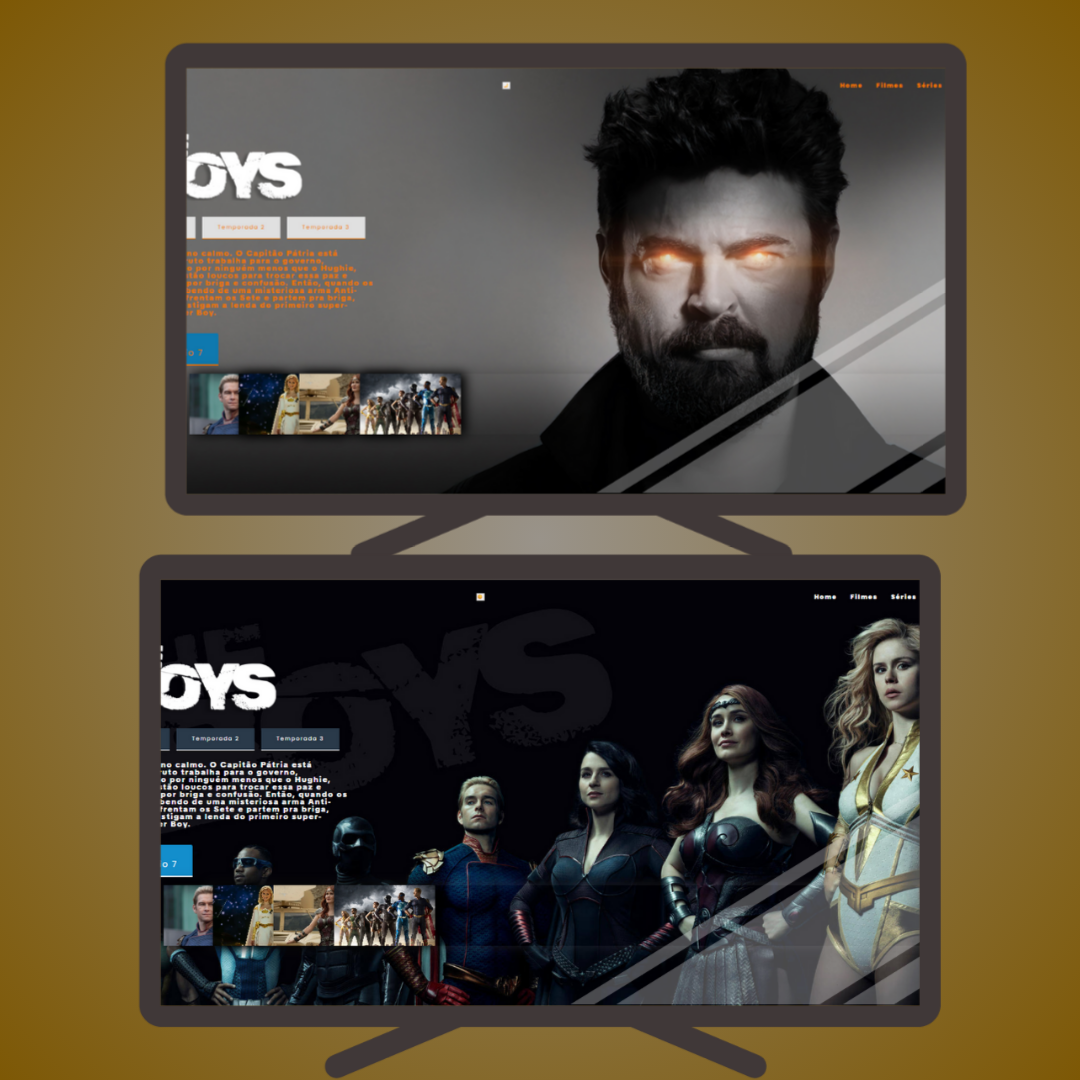
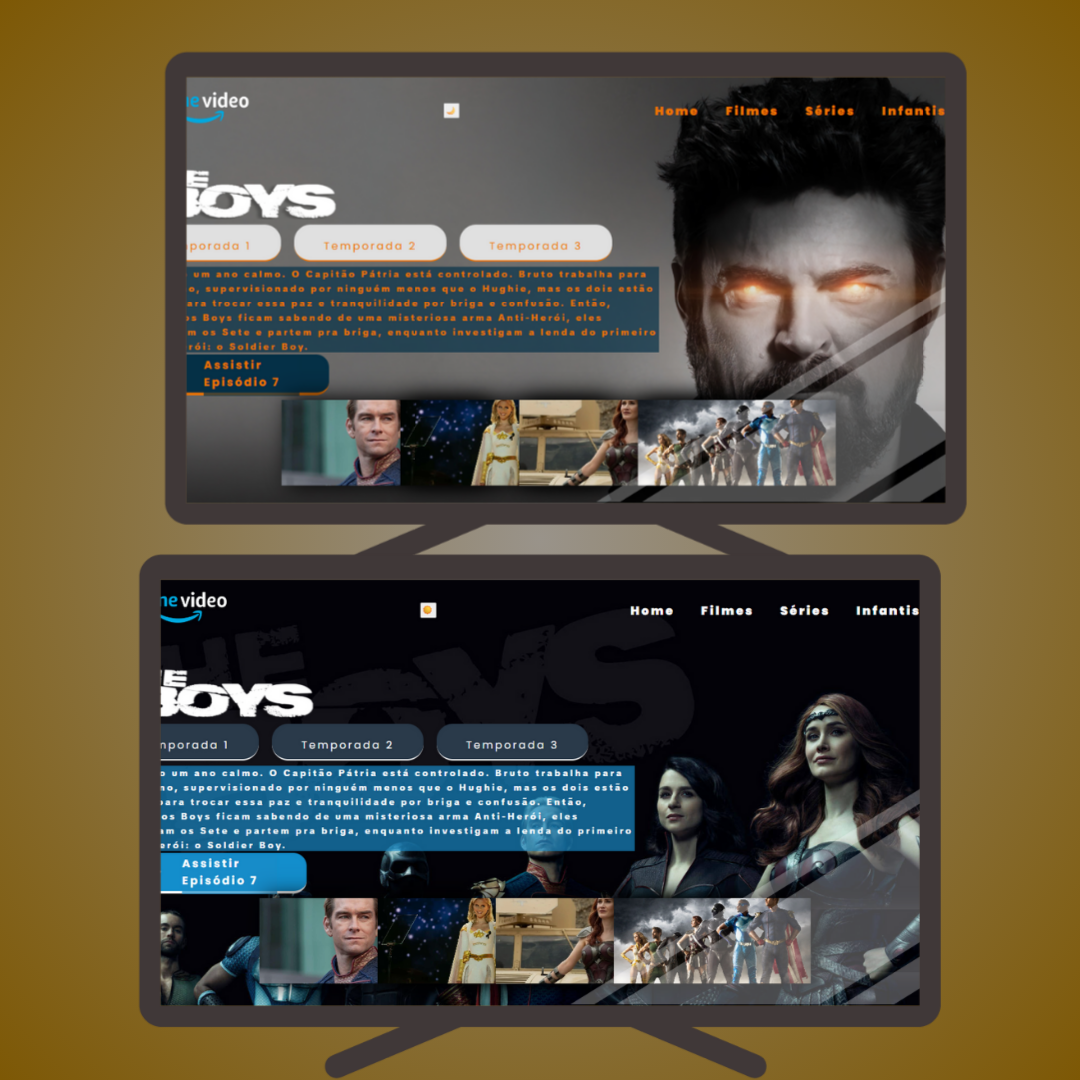
atualização

diff --git a/style.css b/style.css
@@ -3,9 +3,10 @@
 
 /* Variáveis para modo claro (padrão) */
 :root {
+  --back-color: hsla(201, 87%, 15%, 0.685);
   --bg-color: url(img/bg.jpg);
    --text-color: #ee7503;      /* Texto escuro */
-  --primary-color: #0f79af;
+  --primary-color: #053046;
   --btn-bg: #e0e0e0;
   --btn-hover-bg: #cfcfcf;
   --footer-shadow: rgba(0, 0, 0, 0.15);
@@ -13,6 +14,7 @@
 
 /* Variáveis para modo escuro */
 body.dark-theme {
+  --back-color: hsla(201, 78%, 44%, 0.685);
   --bg-color: url(img/fundo-dark.jpg);
    --text-color: #fff;     /* Texto claro */
   --primary-color: #138ecc;
@@ -32,6 +34,9 @@ body.dark-theme {
 }
 
 body {
+  height: 140vh;
+  width: 100vh;
+  box-sizing: border-box;
   background: var(--bg-color);
   color: var(--text-color);
   background-repeat: no-repeat;
@@ -46,6 +51,7 @@ main .text,
 .btn-box2,
 .btn-box .btn,
 h6, p, a {
+  height: 3.5em;
   color: var(--text-color);
 }
 
@@ -78,10 +84,12 @@ header {
 
 /* Menu horizontal desktop */
 .navigation ul {
+  
     font-weight: 900;
   display: flex;
   align-items: center;
   gap: 40px;
+margin: 0;
 }
 
 .navigation ul li a {
@@ -124,11 +132,13 @@ main section {
 }
 
 main section .logoboys {
-  width: 35em;
-  margin: 3em 0;
+  height: 5em;
+  width: 20em;
+  margin: 0.5em 0;
 }
 
 main section .btn-box {
+  width: 50em;
   display: flex;
   align-items: center;
   gap: 20px;
@@ -138,9 +148,10 @@ main section .btn-box {
   padding: 20px 45px;
   background: var(--btn-bg);
   color: var(--text-color);
-  margin-bottom: 2em;
+  margin-bottom: 0.5em;
   border-bottom: 2px solid var(--text-color);
   transition: background-color 0.3 ease;
+  border-radius: 25px;
 }
 
 .btn-box .btn:hover,
@@ -150,14 +161,29 @@ main section .btn-box {
 
 main section .text {
     
+    height: 9em;
     font-family: "TikTok Sans", sans-serif;
     font-weight: 800;
     color: var(--text-color);
-    font-size: 1.5rem;
+    font-size: 0.9rem;
     line-height: 22px;
+    margin-top: 0;
+    margin-bottom: 0;
+    border: 0;
+}
+
+p {
+ 
+     background-color: var(--back-color);
+     background-size: cover;
+     width: 100%;
+     hyphens: 100vh;
+    
 }
 
 .btn-box2 {
+  height: 2.5em;
+  width: 12em;
   display: flex;
   align-items: center;
   color:var(--text-color);
@@ -170,6 +196,15 @@ main section .text {
   gap: 15px;
   cursor: pointer;
   transition: background-color 0.3s ease;
+  margin-top: 3px;
+  border-radius: 20px;
+}
+.btn-box2 p {
+  font-size: 17px;
+  font-weight: 700;
+  align-items: center;
+  margin-top: .5em;
+  padding: 0;
 }
 
 .btn-box2:hover {
@@ -183,6 +218,7 @@ main section .text {
 
 /* FOOTER */
 footer .cards {
+  height: 6em;
   display: flex;
   align-items: center;
   flex-flow: row;
@@ -192,7 +228,8 @@ footer .cards {
 }
 
 .cards .card {
-  height: 180px;
+  height: 130px;
+  width: 300px;
   max-width: 300px;
   box-shadow: 12px 0px 32px 2px black;
   margin-left: -120px;

diff --git a/index.html b/index.html
@@ -49,10 +49,10 @@
 
       <div class="btn-box2">
         <img src="img/botao-play.png" alt="botão play" class="play" />
-        <div>
-          <h6><a href="#">Assistir</a></h6>
-          <p>Episódio 7</p>
-        </div>
+        
+          <h6><a href="#"></a></h6>
+          <p>Assistir Episódio 7</p>
+        
       </div>
     </section>
   </main>
